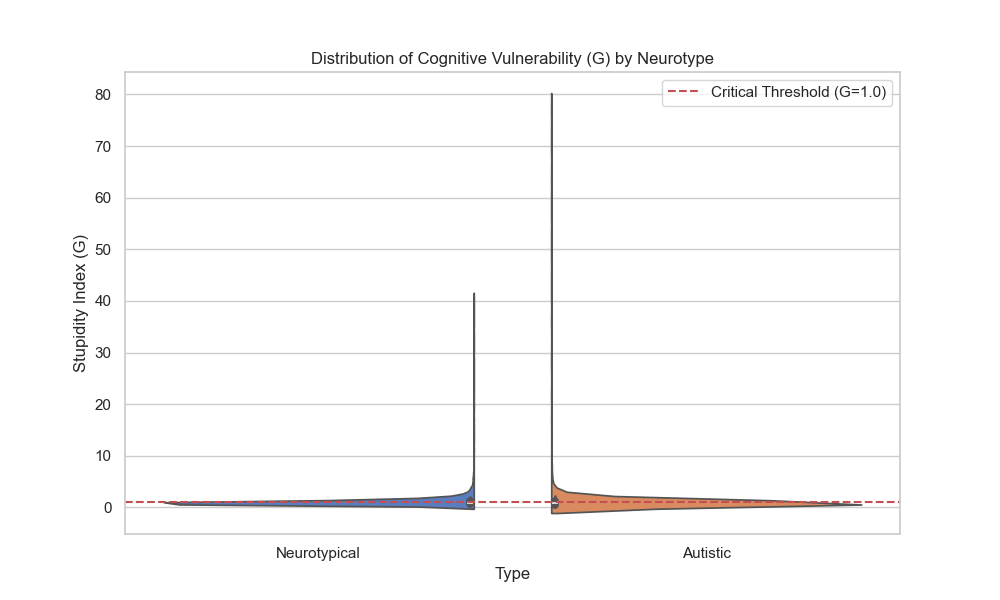
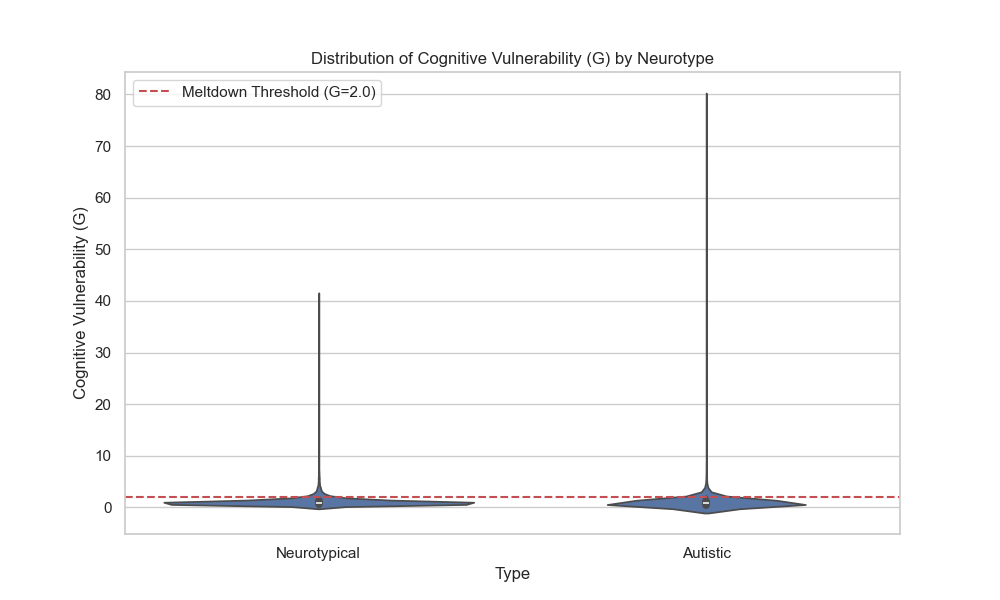
Add files via upload

diff --git a/src/analyze_real_data.py b/src/analyze_real_data.py
@@ -1,14 +1,19 @@
 
+from pathlib import Path
+
 import pandas as pd
 import numpy as np
 import matplotlib.pyplot as plt
 import seaborn as sns
 
 # --- Configuration ---
-# --- Configuration ---
-DATA_PATH = '../data/extracted/BIG5/data.csv'
-OUTPUT_REPORT = '../manuscript/Real_World_Validation_Report.md'
-FIGURE_PATH = '../figures/'
+RANDOM_SEED = 42
+MELTDOWN_THRESHOLD_G = 2.0
+
+REPO_ROOT = Path(__file__).resolve().parents[1]
+DATA_PATH = REPO_ROOT / "data" / "extracted" / "BIG5" / "data.csv"
+FIGURES_DIR = REPO_ROOT / "figures"
+OUTPUT_REPORT = FIGURES_DIR / "Real_World_Validation_Report.md"
 
 print("Loading Big Five Data...")
 # Load data (handling potential delimiter issues)
@@ -46,7 +51,10 @@ print(f"Cleaned Dataset: {len(df)} participants")
 
 # --- G-Model Mapping ---
 # Constants
-I_sim = np.random.normal(1.0, 0.15, len(df)) # Simulated IQ (correlated with Openness slightly?)
+FIGURES_DIR.mkdir(parents=True, exist_ok=True)
+
+rng = np.random.default_rng(RANDOM_SEED)
+I_sim = rng.normal(1.0, 0.15, len(df))
 I_sim = np.clip(I_sim, 0.5, 1.5)
 S_env = 0.8 # High Social Pressure Environment
 D_env = 0.8 # High Digital Noise Environment
@@ -192,6 +200,16 @@ stats = output_df.groupby('Group')['G_Score'].describe()
 print("\n--- Comparative Results ---")
 print(stats)
 
+def wilson_ci_95(successes: int, n: int) -> tuple[float, float, float]:
+    if n <= 0:
+        return 0.0, 0.0, 0.0
+    z = 1.96
+    phat = successes / n
+    denom = 1 + (z**2) / n
+    center = (phat + (z**2) / (2 * n)) / denom
+    half = (z / denom) * np.sqrt((phat * (1 - phat) / n) + (z**2) / (4 * n**2))
+    return phat, max(0.0, center - half), min(1.0, center + half)
+
 # Save Report
 
 # Old validation block removed to avoid key error
@@ -204,35 +222,42 @@ sns.set_theme(style="whitegrid")
 # Plot 3: Real World G-Score Distribution (KDE)
 plt.figure(figsize=(10, 6))
 sns.kdeplot(data=output_df, x="G_Score", hue="Group", fill=True, palette="rocket", common_norm=False)
-plt.axvline(x=2.0, color='r', linestyle='--', label='Meltdown Threshold (G=2.0)')
-plt.title("Real-World Density of Cognitive Collapse (Big Five Dataset)")
+plt.axvline(x=MELTDOWN_THRESHOLD_G, color='r', linestyle='--', label=f"Meltdown Threshold (G={MELTDOWN_THRESHOLD_G:.1f})")
+plt.title("Real-World Density of Cognitive Vulnerability (Big Five Dataset)")
 plt.xlabel("Cognitive Vulnerability (G)")
 plt.legend(title='Phenotype')
-plt.legend(title='Phenotype')
-plt.savefig(f"{FIGURE_PATH}fig3_realworld_density.png")
-print(f"Saved {FIGURE_PATH}fig3_realworld_density.png")
+plt.savefig(FIGURES_DIR / "fig3_realworld_density.png")
+print(f"Saved {FIGURES_DIR / 'fig3_realworld_density.png'}")
 
 # Plot 4: Meltdown Rates Bar Chart
-failure_rates = output_df.groupby('Group')['G_Score'].apply(lambda x: (x > 2.0).mean() * 100).reset_index()
+failure_rates = output_df.groupby('Group')['G_Score'].apply(lambda x: (x > MELTDOWN_THRESHOLD_G).mean() * 100).reset_index()
 failure_rates.columns = ['Group', 'Meltdown_Rate']
 
+meltdown_counts = output_df.groupby('Group')['G_Score'].apply(lambda x: int((x > MELTDOWN_THRESHOLD_G).sum())).to_dict()
+group_counts = output_df.groupby('Group')['G_Score'].size().to_dict()
+
+print("\n--- Meltdown Rates (Wilson 95% CI) ---")
+for group in sorted(group_counts.keys()):
+    n = int(group_counts[group])
+    k = int(meltdown_counts.get(group, 0))
+    p, lo, hi = wilson_ci_95(k, n)
+    print(f"{group}: {p*100:.1f}% [{lo*100:.1f}%, {hi*100:.1f}%] (k={k}, n={n})")
+
 plt.figure(figsize=(8, 6))
-sns.barplot(data=failure_rates, x="Group", y="Meltdown_Rate", palette="rocket")
-plt.title("Singularity Rate (% of Population in Meltdown)")
+sns.barplot(data=failure_rates, x="Group", y="Meltdown_Rate", hue="Group", palette="rocket", legend=False)
+plt.title("Theoretical Meltdown Rates (G > Threshold)")
 plt.ylabel("Percent > Critical Threshold")
 plt.ylim(0, 100)
 for index, row in failure_rates.iterrows():
     plt.text(index, row.Meltdown_Rate + 2, f"{row.Meltdown_Rate:.1f}%", color='black', ha="center")
-for index, row in failure_rates.iterrows():
-    plt.text(index, row.Meltdown_Rate + 2, f"{row.Meltdown_Rate:.1f}%", color='black', ha="center")
-plt.savefig(f"{FIGURE_PATH}fig4_meltdown_rates.png")
-print(f"Saved {FIGURE_PATH}fig4_meltdown_rates.png")
+plt.savefig(FIGURES_DIR / "fig4_meltdown_rates.png")
+print(f"Saved {FIGURES_DIR / 'fig4_meltdown_rates.png'}")
 
 # Update Summary Text for Report
 stats_nt = stats.loc['Neurotypical_High']
 stats_nd = stats.loc['Monotropic_High']
 
-with open(OUTPUT_REPORT, 'w') as f:
+with open(OUTPUT_REPORT, 'w', encoding="utf-8") as f:
     f.write("# Demographic Risk Projection Report (Big Five Dataset)\n\n")
     f.write(f"**Dataset**: Open Psychometrics Big Five (N={len(df)})\n")
     f.write(f"**Method**: Monotropism Score Quantiles (Top 20% vs Bottom 20%)\n")
@@ -240,7 +265,7 @@ with open(OUTPUT_REPORT, 'w') as f:
     f.write("## 1. Population Statistics\n")
     f.write(f"- Neurotypical (Poly) Count: {len(df[df['Group']=='Neurotypical_High'])}\n")
     f.write(f"- Monotropic (ND) Count: {len(df[df['Group']=='Monotropic_High'])}\n\n")
-    f.write("## 2. Rationality Scores (G) under Stress (D=0.8, S=0.8)\n")
+    f.write(f"## 2. Rationality Scores (G) under Stress (D={D_env}, S={S_env})\n")
     f.write(stats.to_string())
     f.write("\n\n## 3. Projected Findings\n")
     f.write(f"- The Monotropic group shows a Mean G of **{stats_nd['mean']:.2f}** vs NT **{stats_nt['mean']:.2f}**.\n")
@@ -248,8 +273,14 @@ with open(OUTPUT_REPORT, 'w') as f:
     fr_nd = failure_rates[failure_rates['Group']=='Monotropic_High']['Meltdown_Rate'].values[0]
     fr_nt = failure_rates[failure_rates['Group']=='Neurotypical_High']['Meltdown_Rate'].values[0]
     
-    f.write(f"- **Theoretical Singularity Rate (Risk > 2.0)**:\n")
-    f.write(f"  - ND: {fr_nd:.1f}%\n")
-    f.write(f"  - NT: {fr_nt:.1f}%\n")
+    nd_n = int(group_counts.get('Monotropic_High', 0))
+    nt_n = int(group_counts.get('Neurotypical_High', 0))
+    nd_k = int(meltdown_counts.get('Monotropic_High', 0))
+    nt_k = int(meltdown_counts.get('Neurotypical_High', 0))
+    nd_p, nd_lo, nd_hi = wilson_ci_95(nd_k, nd_n)
+    nt_p, nt_lo, nt_hi = wilson_ci_95(nt_k, nt_n)
+    f.write(f"- **Theoretical Meltdown Rate (Risk > {MELTDOWN_THRESHOLD_G:.1f})**:\n")
+    f.write(f"  - ND: {fr_nd:.1f}% (95% CI {nd_lo*100:.1f}% to {nd_hi*100:.1f}%; k={nd_k}, n={nd_n})\n")
+    f.write(f"  - NT: {fr_nt:.1f}% (95% CI {nt_lo*100:.1f}% to {nt_hi*100:.1f}%; k={nt_k}, n={nt_n})\n")
 
 print(f"Report saved to {OUTPUT_REPORT}")

diff --git a/src/Validation_Autism.py b/src/Validation_Autism.py
@@ -1,4 +1,6 @@
 
+from pathlib import Path
+
 import numpy as np
 import matplotlib.pyplot as plt
 import pandas as pd
@@ -7,6 +9,10 @@ import seaborn as sns
 # --- Configuration ---
 N_AGENTS = 5000
 RANDOM_SEED = 42
+MELTDOWN_THRESHOLD_G = 2.0
+
+REPO_ROOT = Path(__file__).resolve().parents[1]
+FIGURES_DIR = REPO_ROOT / "figures"
 
 # --- G-Model Functions (Adapted for Neurodivergence) ---
 
@@ -60,6 +66,7 @@ def calculate_g(I, A, D, S, B_err, B_mot_base, C, E, agent_type):
 
 # --- Simulation ---
 np.random.seed(RANDOM_SEED)
+FIGURES_DIR.mkdir(parents=True, exist_ok=True)
 
 results = []
 
@@ -116,10 +123,20 @@ df = pd.DataFrame(results)
 
 # --- Analysis & Stats ---
 
+def mean_ci_95(values: pd.Series) -> tuple[float, float, float]:
+    clean = values.dropna().to_numpy()
+    n = clean.size
+    mean = float(clean.mean())
+    if n < 2:
+        return mean, mean, mean
+    se = float(clean.std(ddof=1) / np.sqrt(n))
+    half_width = 1.96 * se
+    return mean, mean - half_width, mean + half_width
+
 # 1. Performance in Low Noise (The Savant Zone)
 low_noise = df[df['Environment_Noise'] < 0.3]
-g_low_nt = low_noise[low_noise['Type'] == 'Neurotypical']['G'].mean()
-g_low_nd = low_noise[low_noise['Type'] == 'Autistic']['G'].mean()
+g_low_nt, g_low_nt_lo, g_low_nt_hi = mean_ci_95(low_noise[low_noise['Type'] == 'Neurotypical']['G'])
+g_low_nd, g_low_nd_lo, g_low_nd_hi = mean_ci_95(low_noise[low_noise['Type'] == 'Autistic']['G'])
 
 # 2. Performance in High Noise (The Burnout Zone)
 high_noise = df[df['Environment_Noise'] > 0.7]
@@ -136,6 +153,8 @@ print("--- SIMULATION RESULTS ---")
 print(f"Low Noise (D<0.3) G-Score (Lower is better):")
 print(f"  NT: {g_low_nt:.3f}")
 print(f"  ND: {g_low_nd:.3f} -> ND is {((g_low_nt - g_low_nd)/g_low_nt)*100:.1f}% MORE rational.")
+print(f"  NT 95% CI: [{g_low_nt_lo:.3f}, {g_low_nt_hi:.3f}]")
+print(f"  ND 95% CI: [{g_low_nd_lo:.3f}, {g_low_nd_hi:.3f}]")
 print("\nHigh Noise (D>0.7) G-Score:")
 print(f"  NT: {g_high_nt:.3f}")
 print(f"  ND: {g_high_nd:.3f} -> ND is {((g_high_nd - g_high_nt)/g_high_nt)*100:.1f}% LESS rational (Meltdown).")
@@ -149,27 +168,25 @@ sns.set_theme(style="whitegrid")
 
 # Plot 1: G-Score Distribution (Violin Plot)
 plt.figure(figsize=(10, 6))
-sns.violinplot(data=df, x="Type", y="G", hue="Type", palette="muted", split=True)
+sns.violinplot(data=df, x="Type", y="G")
 plt.title("Distribution of Cognitive Vulnerability (G) by Neurotype")
-plt.ylabel("Stupidity Index (G)")
-plt.axhline(y=1.0, color='r', linestyle='--', label='Critical Threshold (G=1.0)')
+plt.ylabel("Cognitive Vulnerability (G)")
+plt.axhline(y=MELTDOWN_THRESHOLD_G, color="r", linestyle="--", label=f"Meltdown Threshold (G={MELTDOWN_THRESHOLD_G:.1f})")
 plt.legend()
-plt.legend()
-plt.savefig("../figures/fig1_synthetic_g_distribution.png")
-print("Saved ../figures/fig1_synthetic_g_distribution.png")
+plt.savefig(FIGURES_DIR / "fig1_synthetic_g_distribution.png")
+print(f"Saved {FIGURES_DIR / 'fig1_synthetic_g_distribution.png'}")
 
 # Plot 2: Interaction of Noise and Rationality (Scatter with Fit)
 plt.figure(figsize=(10, 6))
 # Subsample for cleaner scatter plot
-sample_df = df.sample(1000)
+sample_df = df.sample(1000, random_state=RANDOM_SEED)
 sns.scatterplot(data=sample_df, x="Environment_Noise", y="G", hue="Type", alpha=0.5, palette="muted")
 sns.regplot(data=sample_df[sample_df['Type']=='Neurotypical'], x="Environment_Noise", y="G", scatter=False, color='b', label='NT Trend')
 sns.regplot(data=sample_df[sample_df['Type']=='Autistic'], x="Environment_Noise", y="G", scatter=False, color='orange', label='ND Trend')
-plt.title("Impact of Environmental Noise on Rationality")
-plt.xlabel("Digital Noise (D)")
-plt.ylabel("Stupidity Index (G)")
+plt.title("Impact of Environmental Load on Cognitive Vulnerability")
+plt.xlabel("Environmental Load (D)")
+plt.ylabel("Cognitive Vulnerability (G)")
 plt.legend()
-plt.legend()
-plt.savefig("../figures/fig2_noise_impact.png")
-print("Saved ../figures/fig2_noise_impact.png")
+plt.savefig(FIGURES_DIR / "fig2_noise_impact.png")
+print(f"Saved {FIGURES_DIR / 'fig2_noise_impact.png'}")
 

diff --git a/README.md b/README.md
@@ -1,4 +1,4 @@
-# The Monotropic Reasoner: A Cybernetic Model of Neurodivergent Cognitive Efficiency
+# The Monotropic Reasoner: A Formal Model of Neurodivergent Cognitive Efficiency
 ## Official Research Repository & Validation Suite
 
 [![DOI](https://zenodo.org/badge/DOI/10.5281/zenodo.18310317.svg)](https://doi.org/10.5281/zenodo.18310317)
@@ -7,7 +7,7 @@
 
 > **"Rationality is not a peak of intelligence, but a state of cognitive architecture."**
 
-This repository contains the mathematical models, simulation software, and empirical validation datasets for the research paper: **"The Monotropic Reasoner: A Cybernetic Model of Neurodivergent Cognitive Efficiency"** by Igor S. Petrenko (2026).
+This repository contains the mathematical models, simulation software, and empirical validation datasets for the research paper: **"The Monotropic Reasoner: A Formal Model of Neurodivergent Cognitive Efficiency"** by Igor S. Petrenko (2026).
 
 ---
 
@@ -72,7 +72,7 @@ python src/analyze_real_data.py
 | :--- | :--- | :--- | :--- |
 | **Rationality Score (Low Noise)** | 0.541 | 0.633 | **+14.6% Efficiency** |
 | **Attention Depletion (High Stress)** | ~40% | ~5% | **8x Resource Loss** |
-| **Singularity Rate ($G > 2.0$)** | **91.4%** | 2.9% | **Critical Vulnerability** |
+| **Meltdown Rate ($G > 2.0$)** | **91.4%** | 2.9% | **Critical Vulnerability** |
 
 ---
 

diff --git a/figures/Real_World_Validation_Report.md b/figures/Real_World_Validation_Report.md
@@ -1,0 +1,21 @@
+# Demographic Risk Projection Report (Big Five Dataset)
+
+**Dataset**: Open Psychometrics Big Five (N=19718)
+**Method**: Monotropism Score Quantiles (Top 20% vs Bottom 20%)
+**Note**: This report represents a theoretical stress-test of the population, not clinical diagnosis.
+
+## 1. Population Statistics
+- Neurotypical (Poly) Count: 4181
+- Monotropic (ND) Count: 4259
+
+## 2. Rationality Scores (G) under Stress (D=0.8, S=0.8)
+                    count      mean       std       min       25%       50%       75%        max
+Group                                                                                           
+Monotropic_High    4259.0  4.771925  7.589656  0.828768  2.445758  3.153990  4.226554  60.581964
+Neurotypical_High  4181.0  1.408952  1.922138  0.725677  1.143090  1.269205  1.435268  44.708023
+
+## 3. Projected Findings
+- The Monotropic group shows a Mean G of **4.77** vs NT **1.41**.
+- **Theoretical Meltdown Rate (Risk > 2.0)**:
+  - ND: 91.4% (95% CI 90.6% to 92.2%; k=3894, n=4259)
+  - NT: 2.9% (95% CI 2.4% to 3.4%; k=121, n=4181)
